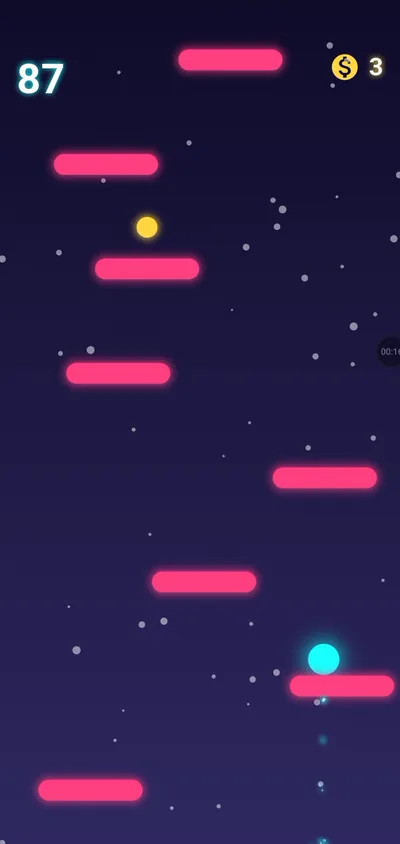
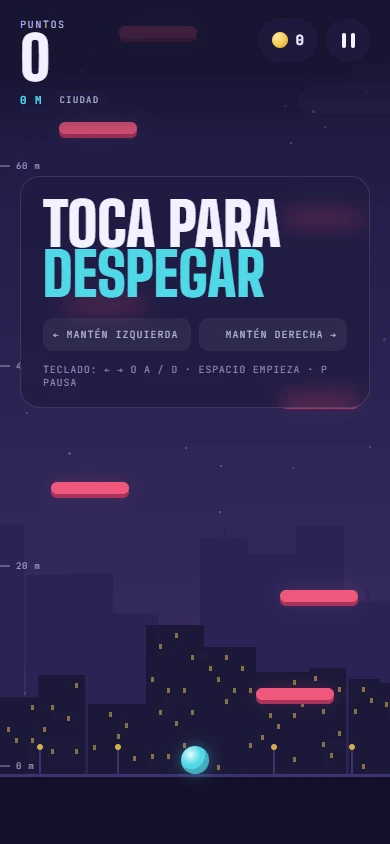
actualizacion de proyecto Neon Jump

diff --git a/logica/Datosportafolio.js b/logica/Datosportafolio.js
@@ -24,7 +24,7 @@
     { Proyecto: 'Khronos', Titulo: 'Khronos', Tipo: 'Planificador de Tareas, próximo a producción', Imagen: 'imagenes/Iconokhronos.webp' }
   ];
 
-  var Capturas = { Nissi: 8, Mitecho: 6, Sonica: 3, Neon: 3, Moderador: 2, Khronos: 1 };
+  var Capturas = { Nissi: 8, Mitecho: 6, Sonica: 3, Neon: 6, Moderador: 2, Khronos: 1 };
 
   var Pies = {
     Nissi: [
@@ -46,7 +46,14 @@
       'Catálogo de proyectos inmobiliarios aliados según presupuesto y ciudad'
     ],
     Sonica: ['Inicio con serie destacada', 'Reproductor con forma de onda', 'Explorar por categorías'],
-    Neon: ['Menú principal', 'Partida en curso', 'Ranking global'],
+    Neon: [
+      'Menú principal con reto del día, racha diaria y accesos rápidos',
+      'Partida en curso sobre la ciudad nocturna y cielo dinámico por altura',
+      'Ranking global y semanal con podio de jugadores',
+      'Tienda de 22 skins organizadas en 4 categorías con vista previa',
+      'Sistema de 27 logros por familias con progreso y recompensas',
+      'Perfil con estadísticas, cuenta de Google y ajustes de control'
+    ],
     Moderador: ['Panel principal con métricas', 'Series publicadas'],
     Khronos: ['Pantalla de inicio con video en bucle y acceso']
   };
@@ -131,24 +138,27 @@
       Imagen: 'imagenes/icono-neon.webp',
       Alticono: 'Ícono del juego Neon Jump',
       Dato: 'Videojuego Móvil · Google Play',
-      Subtitulo: 'Videojuego móvil de saltos infinitos con estilo visual retro neón y tabla de posiciones mundial en tiempo real, publicado y disponible en la tienda Google Play.',
+      Subtitulo: 'Videojuego móvil de saltos infinitos con estética Noche Suave, cielo evolutivo por altura, 22 skins, 27 logros, racha diaria y ranking global y semanal, publicado y disponible en Google Play.',
       Etiquetapuntos: 'Cómo funciona y tecnologías de Neon Jump',
       Puntos: [
-        { Num: '·', Texto: 'Programé el juego en el lenguaje Dart usando Flutter y el motor especializado Flame Engine, con un sistema que crea plataformas infinitas al azar y recicla elementos en memoria para que la partida funcione con total fluidez en pantallas de 60, 90 y 120 hercios.' },
-        { Num: '·', Texto: 'Integré los servicios de Firebase para permitir el inicio de sesión con cuentas de Google y creé una base de datos en Cloud Firestore que actualiza en vivo la tabla de los mejores cincuenta jugadores del mundo.' },
-        { Num: '·', Texto: 'Protegí los puntajes y monedas contra intentos de trampa ofuscando los números en la memoria del dispositivo, guardé la partida con llaves cifradas e integré anuncios de Google AdMob que permiten al jugador revivir tras ver un video publicitario.' }
+        { Num: '·', Texto: 'Reconstruí el juego con HTML, CSS y JavaScript puro dentro de un WebView a pantalla completa con Flutter como anfitrión nativo mediante un puente bidireccional, creando un motor físico propio con plataformas móviles, frágiles y con resorte, partículas y un cielo que evoluciona por altura desde la ciudad hasta el espacio.' },
+        { Num: '·', Texto: 'Integré Firebase (Cloud Firestore, Auth y App Check con Play Integrity) para mantener un ranking global y semanal con nombres únicos normalizados, inicio de sesión con Google, retos diarios, tienda de skins, logros y recordatorios locales de racha.' },
+        { Num: '·', Texto: 'Protegí el progreso del jugador con almacenamiento cifrado en el dispositivo (Flutter Secure Storage), validaciones estrictas de estado, migración automática desde versiones previas, anuncios de AdMob (banner, intersticial y bonificado para revivir) y actualizaciones inmediatas con Play Core.' }
       ],
       Ficha: [
         { Clave: 'Tipo', Valor: 'Videojuego móvil en dos dimensiones' },
-        { Clave: 'Stack', Valor: 'Flutter · Dart · Flame Engine · Firebase · AdMob' },
+        { Clave: 'Stack', Valor: 'HTML · CSS · JavaScript · Flutter · Dart · Firebase · AdMob' },
         { Clave: 'Tienda', Valor: 'Google Play Store' }
       ],
       Accion: { Url: 'https://play.google.com/store/apps/details?id=com.tustudio.neon%5Fjump', Texto: 'Ver en Google Play' },
       Dispositivo: 'movil',
       Capturas: [
-        { Src: 'imagenes/neon-1.webp', Alt: 'Menú principal de Neon Jump' },
-        { Src: 'imagenes/neon-2.webp', Alt: 'Partida en curso de Neon Jump' },
-        { Src: 'imagenes/neon-3.webp', Alt: 'Ranking global de Neon Jump' }
+        { Src: 'imagenes/neon-1.webp', Alt: 'Menú principal de Neon Jump Noche Suave con reto del día y racha diaria' },
+        { Src: 'imagenes/neon-2.webp', Alt: 'Partida en curso de Neon Jump sobre la ciudad nocturna' },
+        { Src: 'imagenes/neon-3.webp', Alt: 'Ranking global y semanal de Neon Jump con podio de jugadores' },
+        { Src: 'imagenes/neon-4.webp', Alt: 'Tienda de 22 skins de Neon Jump organizadas por categorías' },
+        { Src: 'imagenes/neon-5.webp', Alt: 'Pantalla de logros de Neon Jump con progreso y recompensas en monedas' },
+        { Src: 'imagenes/neon-6.webp', Alt: 'Perfil de Neon Jump con estadísticas, vinculación con Google y ajustes' }
       ],
       Anterior: { Proyecto: 'Mitecho', Nombre: 'MiTecho' },
       Siguiente: { Proyecto: 'Sonica', Nombre: 'Sónica App de Podcasts' }
